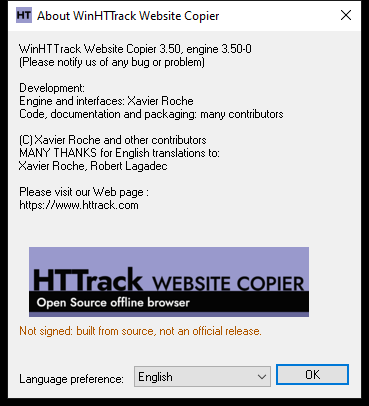
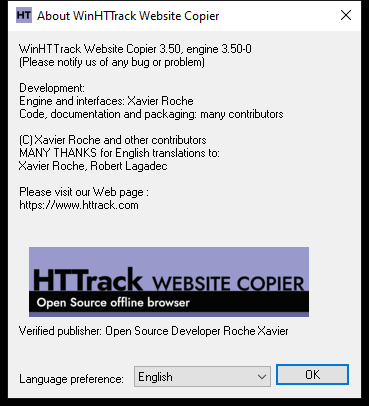
Shoot the About box from the signed build
The unsigned CI binary printed 'Not signed: built from source, not an
official release', which is true of that artifact and false of what a
user installs. Capture from httrack-works c69817f, walk 33261633814 over
the signed x64 tree from tag build 33256458299.

Changed region(s): [[0.0298, 0.798, 0.7751, 0.8276]]

diff --git a/html/guide.html b/html/guide.html
@@ -111,7 +111,9 @@ scripted. The <a href="cmdguide.html">command-line guide</a> covers that side.</
 <div class="note" data-for="win">
 	<p><b>First launch.</b> WinHTTrack opens on its About box, which carries a <b>Language
 	preference</b> dropdown at the foot. The choice is remembered, and
-	<b>Preferences &gt; Language preference...</b> changes it later.</p>
+	<b>Preferences &gt; Language preference...</b> changes it later. The publisher
+	line above it is the name on the code-signing certificate, which is why it
+	reads as it does.</p>
 	<figure>
 		<img data-for="win" src="img/guide-win-language.png" alt="WinHTTrack About box with the language preference dropdown" width="369" height="406">
 	</figure>
